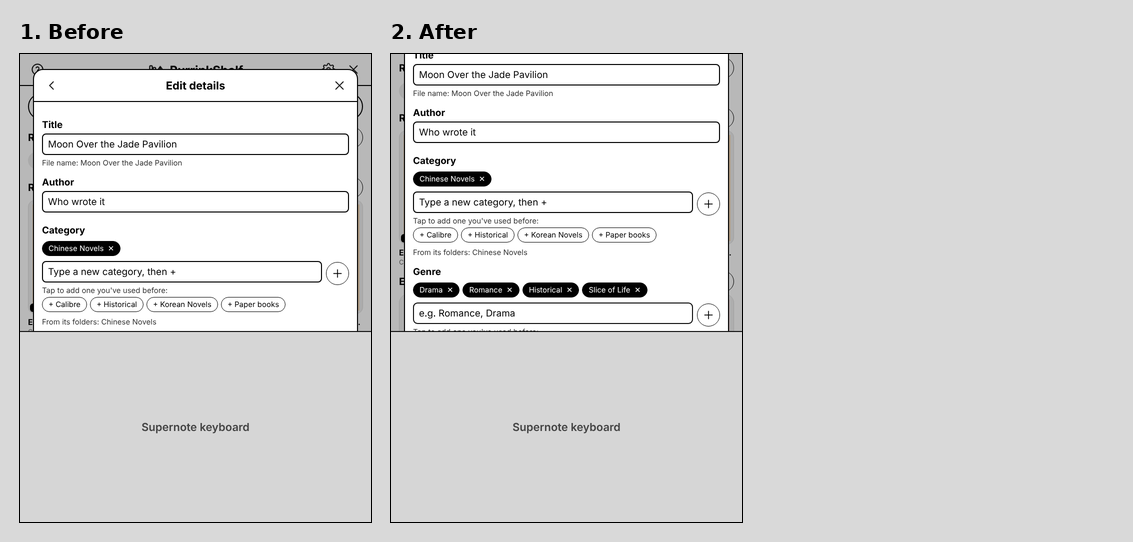
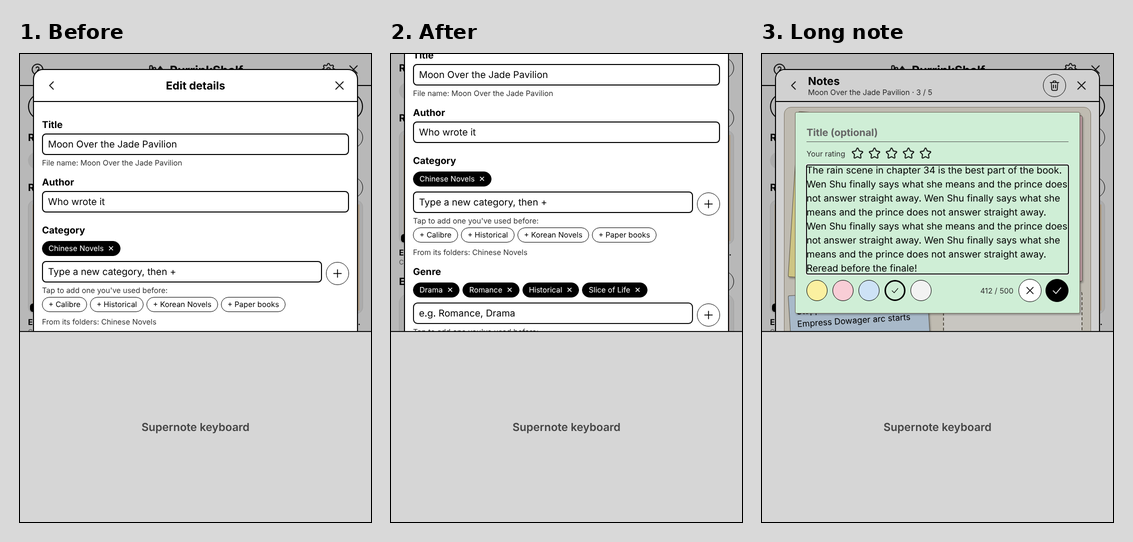
Keyboard: the whole box stays above it while typing; tall boxes shorten and scroll to the line being typed
Claude-Session: https://claude.ai/code/session_01X56ddDHNWUKJn2BBuoFg9X

Changed region(s): [[0.6487, 0.0295, 0.9885, 0.6199], [0.7723, 0.7675, 0.865, 0.797]]

diff --git a/App.tsx b/App.tsx
@@ -172,33 +172,43 @@ function Text(props: React.ComponentProps<typeof RNText>) {
   );
 }
 // ---------- keyboard: the box being typed in always moves up above the keyboard ----------
-let typingIn: ((el: RNTextInput | null) => void) | null = null;
+// The whole box goes above the keyboard, so every new line stays in view. A box taller than the space
+// left is shortened to fit, and then it scrolls inside itself to keep the line being typed in view.
+type Typing = {el: RNTextInput | null; setCap: (h: number | undefined) => void};
+let typingIn: ((t: Typing | null) => void) | null = null;
+let typingChanged: (() => void) | null = null;
 function KeyboardLift({children}: {children: React.ReactNode}) {
   const [lift, setLift] = useState(0);
   const liftRef = useRef(0);
   const kb = useRef(0);
-  const input = useRef<RNTextInput | null>(null);
+  const cur = useRef<Typing | null>(null);
   const update = useCallback(() => {
-    const el: any = input.current;
-    if (!el || !kb.current || !el.measureInWindow) {
+    const t = cur.current;
+    const el: any = t?.el;
+    if (!t || !el || !kb.current || !el.measureInWindow) {
+      t?.setCap(undefined);
       liftRef.current = 0;
       setLift(0);
       return;
     }
     el.measureInWindow((_x: number, y: number, _w: number, h: number) => {
       const top = y + liftRef.current; // where the box is without the lift
-      const visible = H - kb.current; // the screen above the keyboard
-      let up = Math.max(0, top + Math.min(h, px(120)) + px(16) - visible); // its top part (and a gap) above the keyboard
-      up = Math.min(up, Math.max(0, top - px(12))); // never past the top of the screen
+      const room = H - kb.current - px(28); // the space above the keyboard, with a gap at each end
+      const tall = h > room;
+      t.setCap(tall ? room : undefined);
+      const boxH = tall ? room : h;
+      const up = Math.max(0, Math.min(top - px(12), top + boxH + px(16) - (H - kb.current)));
       liftRef.current = up;
       setLift(up);
     });
   }, []);
   useEffect(() => {
-    typingIn = el => {
-      input.current = el;
+    typingIn = t => {
+      if (!t && cur.current) cur.current.setCap(undefined);
+      cur.current = t;
       setTimeout(update, 60);
     };
+    typingChanged = () => setTimeout(update, 30); // the box grew a line
     const show = Keyboard.addListener('keyboardDidShow', e => {
       kb.current = e.endCoordinates?.height || 0;
       update();
@@ -210,6 +220,7 @@ function KeyboardLift({children}: {children: React.ReactNode}) {
     if (Platform.OS === 'web') (globalThis as any).__fakeKeyboard = (h: number) => { kb.current = h; update(); }; // the preview has no keyboard
     return () => {
       typingIn = null;
+      typingChanged = null;
       show.remove();
       hide.remove();
     };
@@ -218,6 +229,7 @@ function KeyboardLift({children}: {children: React.ReactNode}) {
 }
 const TextInput = React.forwardRef<RNTextInput, React.ComponentProps<typeof RNTextInput>>((props, ref) => {
   const local = useRef<RNTextInput | null>(null);
+  const [cap, setCap] = useState<number | undefined>(undefined);
   const setRef = (r: RNTextInput | null) => {
     local.current = r;
     if (typeof ref === 'function') ref(r);
@@ -225,16 +237,18 @@ const TextInput = React.forwardRef<RNTextInput, React.ComponentProps<typeof RNTe
   };
   const p = {
     ...props,
-    onFocus: (e: any) => { typingIn?.(local.current); props.onFocus?.(e); },
-    onBlur: (e: any) => { if (local.current) typingIn?.(null); props.onBlur?.(e); },
+    onFocus: (e: any) => { typingIn?.({el: local.current, setCap}); props.onFocus?.(e); },
+    onBlur: (e: any) => { typingIn?.(null); props.onBlur?.(e); },
+    onContentSizeChange: (e: any) => { typingChanged?.(); props.onContentSizeChange?.(e); },
   };
+  const capStyle = cap ? {maxHeight: cap, height: Math.min(cap, (StyleSheet.flatten(props.style) as any)?.height || cap)} : null;
   const f = SKETCH ? StyleSheet.flatten(props.style) : null;
   const k = f ? inkOf(f) : null;
-  if (!k) return <RNTextInput ref={setRef} {...p} />;
+  if (!k) return <RNTextInput ref={setRef} {...p} style={[props.style, capStyle]} />;
   const {box, inner} = split(f, k);
   return (
     <RNView style={box}>
-      <RNTextInput ref={setRef} {...p} style={inner} />
+      <RNTextInput ref={setRef} {...p} style={[inner, capStyle]} />
       <SketchLines k={k} />
     </RNView>
   );
